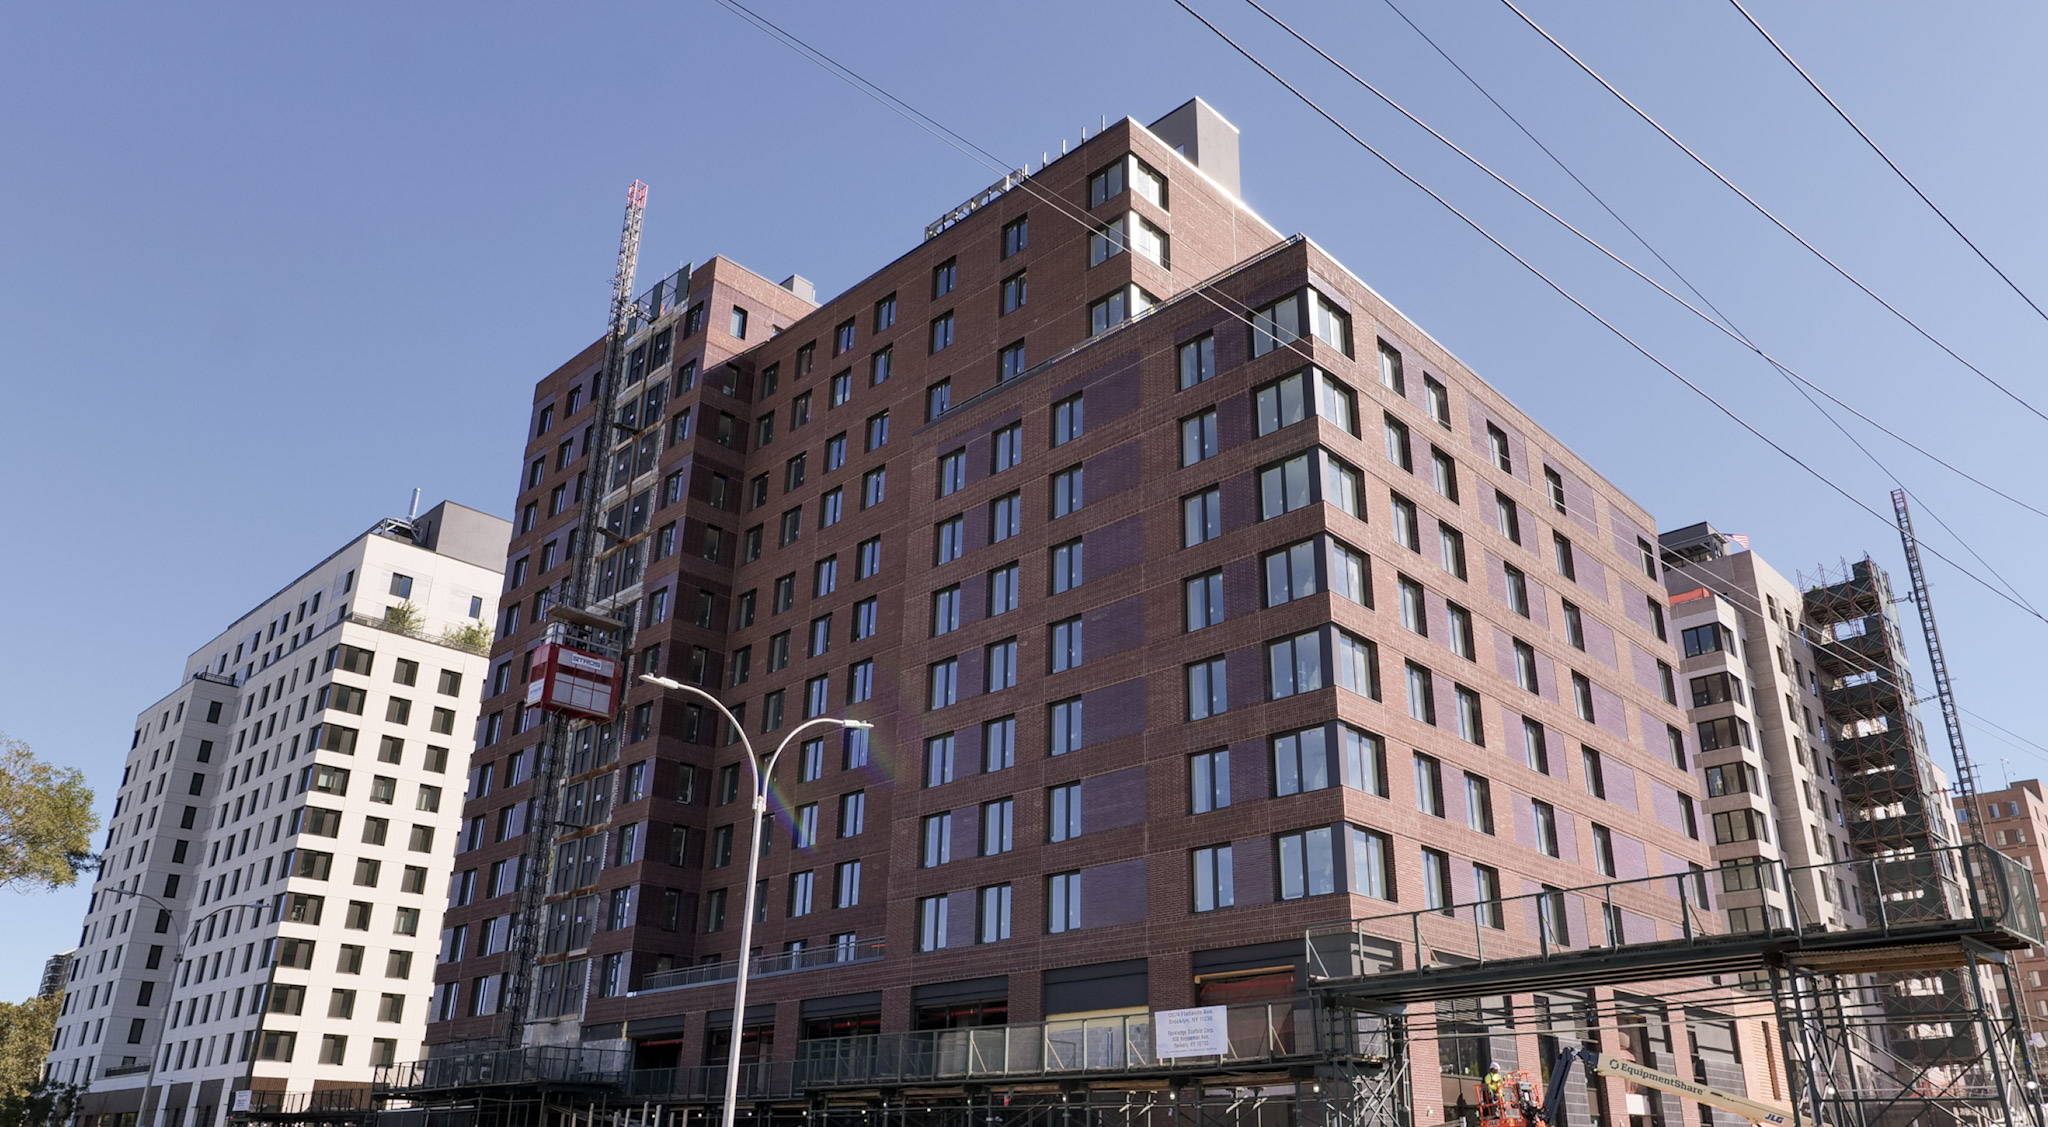
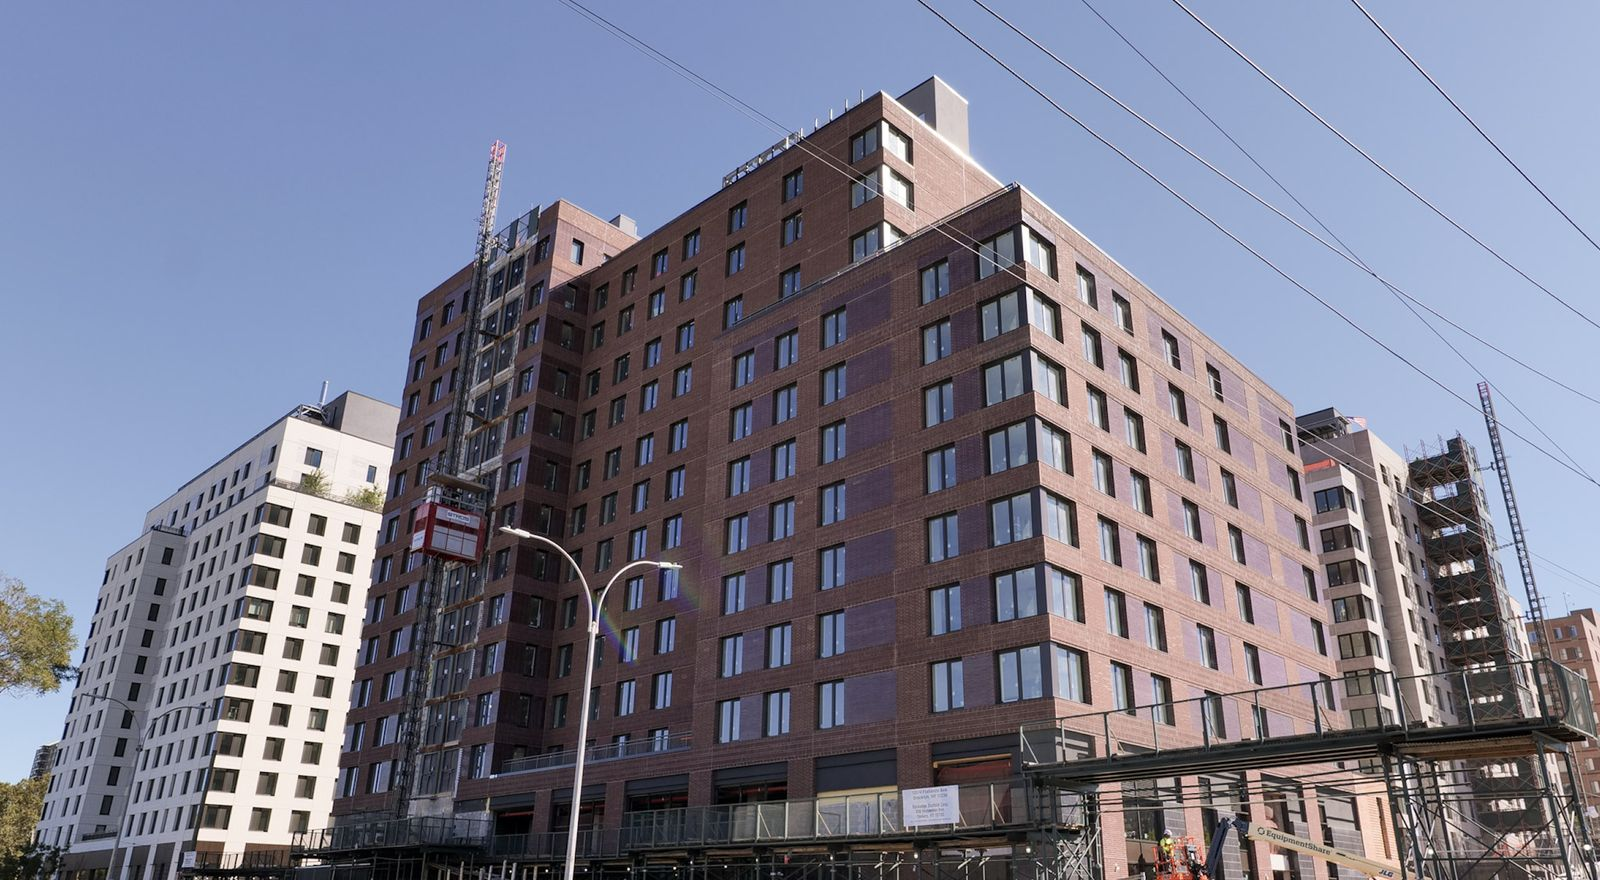
Lucas story: clearer search description; resize 3 new photos
- Meta, Open Graph, Twitter and schema description now lead with Lucas, the vote and the court fight (157 chars). Visible dek unchanged.
- P1266971.jpg 777->358 KB, citadel-cathedral.jpg 686->354 KB, P1266968.jpg 582->238 KB (1600px max)

Changed region(s): [[0.7188, 0.9511, 0.75, 0.9818]]

diff --git a/nikki-lucas-brooklyn-democratic-party-chair-court-fight/index.html b/nikki-lucas-brooklyn-democratic-party-chair-court-fight/index.html
@@ -4,10 +4,10 @@
   <meta charset="UTF-8">
   <meta name="viewport" content="width=device-width, initial-scale=1.0">
   <title>Assemblywoman Nikki Lucas Claims Brooklyn Democratic Party Chair as Courts Weigh In | East New York Times</title>
-  <meta name="description" content="Allies of former leader Rodneyse Bichotte Hermelyn held a late-night virtual vote to name the 60th District Assemblywoman as party chair. Reformers say the vote broke a court order, and a judge is weighing contempt.">
+  <meta name="description" content="Assemblywoman Nikki Lucas was named Brooklyn Democratic Party chair in a late-night vote that reformers call illegal. Here’s the court fight and what’s next.">
   <meta name="author" content="Deric Johnson">
   <meta property="og:title" content="Assemblywoman Nikki Lucas Claims Brooklyn Democratic Party Chair, but Courts May Decide Whether It Counts">
-  <meta property="og:description" content="Allies of former leader Rodneyse Bichotte Hermelyn held a late-night virtual vote to name the 60th District Assemblywoman as party chair. Reformers say the vote broke a court order, and a judge is weighing contempt.">
+  <meta property="og:description" content="Assemblywoman Nikki Lucas was named Brooklyn Democratic Party chair in a late-night vote that reformers call illegal. Here’s the court fight and what’s next.">
   <meta property="og:type" content="article">
   <meta property="og:url" content="https://eastnewyorktimes.com/nikki-lucas-brooklyn-democratic-party-chair-court-fight/">
   <meta property="og:image" content="https://eastnewyorktimes.com/borough-hall-pillars.jpg">
@@ -17,7 +17,7 @@
   <meta property="article:section" content="Politics">
   <meta name="twitter:card" content="summary_large_image">
   <meta name="twitter:title" content="Assemblywoman Nikki Lucas Claims Brooklyn Democratic Party Chair, but Courts May Decide Whether It Counts">
-  <meta name="twitter:description" content="Allies of former leader Rodneyse Bichotte Hermelyn held a late-night virtual vote to name the 60th District Assemblywoman as party chair. Reformers say the vote broke a court order, and a judge is weighing contempt.">
+  <meta name="twitter:description" content="Assemblywoman Nikki Lucas was named Brooklyn Democratic Party chair in a late-night vote that reformers call illegal. Here’s the court fight and what’s next.">
   <meta name="twitter:image" content="https://eastnewyorktimes.com/borough-hall-pillars.jpg">
   <!-- Favicons / app icons -->
   <link rel="icon" href="/favicon.ico" sizes="any">
@@ -67,7 +67,7 @@
     }
   },
   "isAccessibleForFree": true,
-  "description": "Allies of former leader Rodneyse Bichotte Hermelyn held a late-night virtual vote to name the 60th District Assemblywoman as party chair. Reformers say the vote broke a court order, and a judge is weighing contempt.",
+  "description": "Assemblywoman Nikki Lucas was named Brooklyn Democratic Party chair in a late-night vote that reformers call illegal. Here’s the court fight and what’s next.",
   "image": [
     "https://eastnewyorktimes.com/borough-hall-pillars.jpg",
     "https://eastnewyorktimes.com/nikki-lucas-assembly-portrait.jpg"
